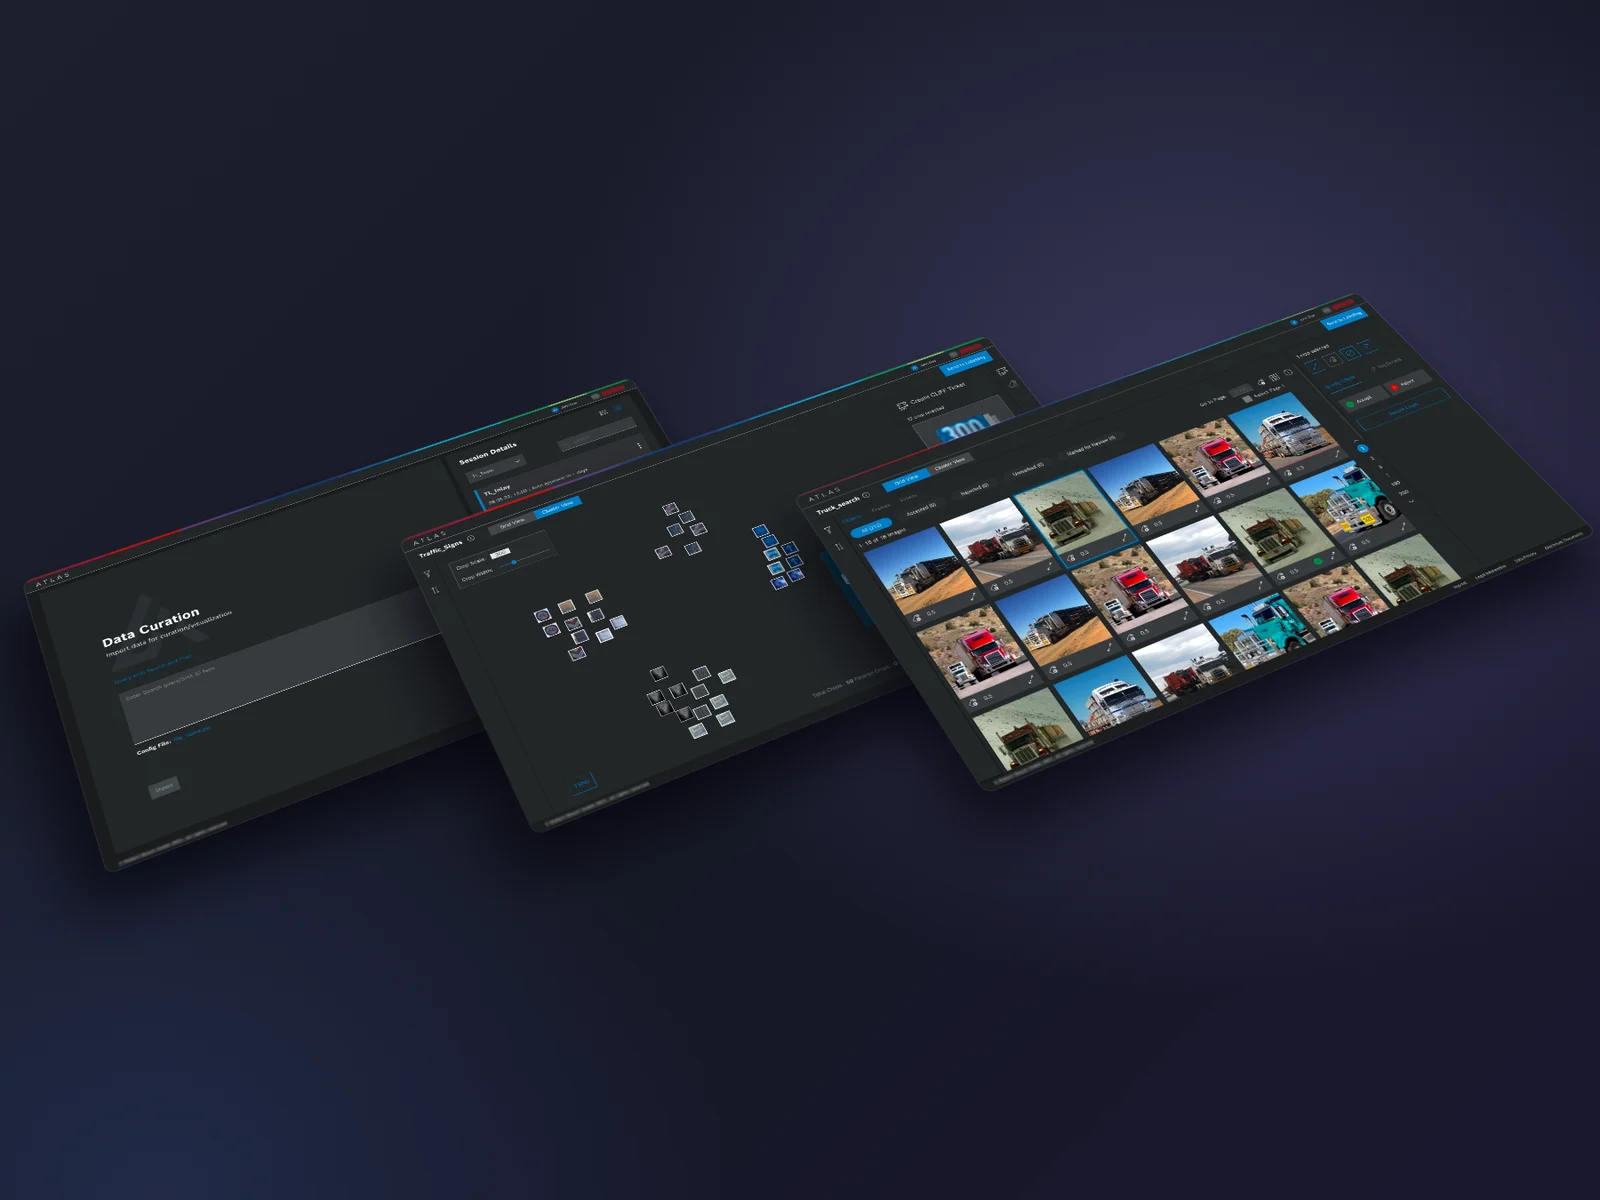
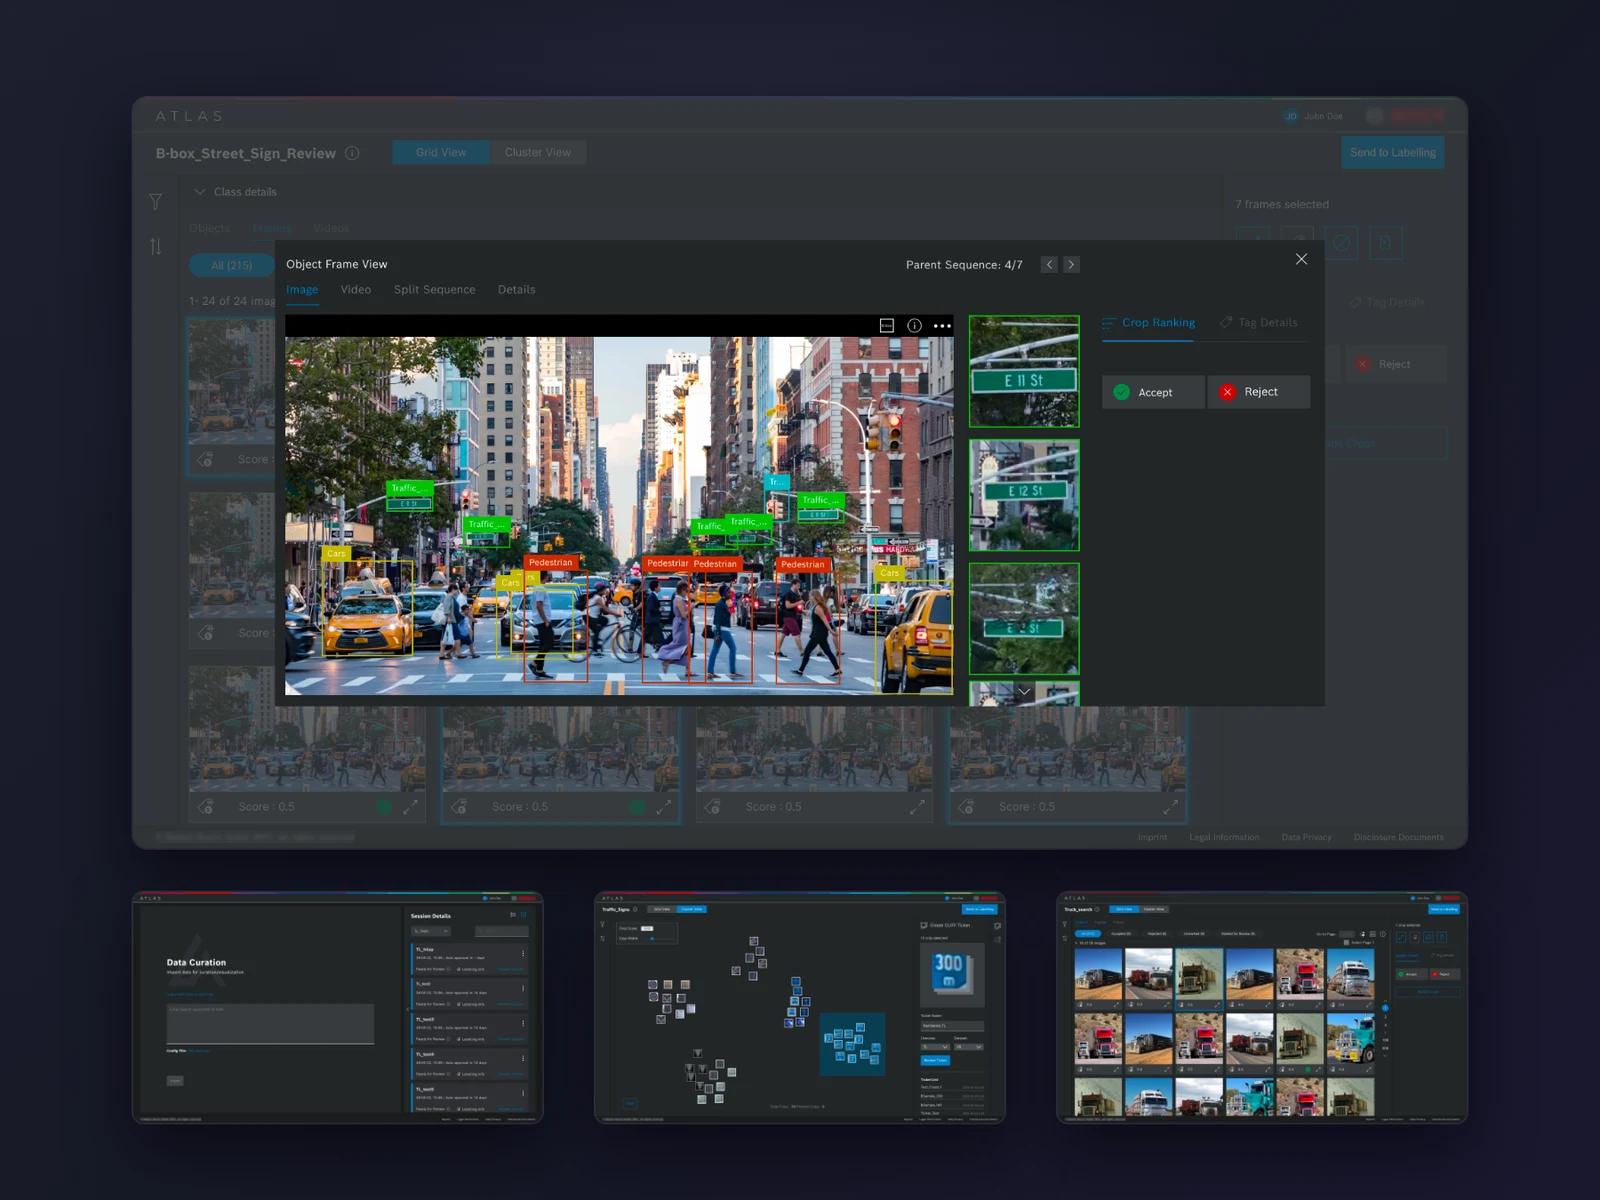
ATLAS cover: flat layout with four screens, object frame view large
Claude-Session: https://claude.ai/code/session_01BUxMADTYnMy5PmcPR4NAT9

diff --git a/projects/bosch-image-data-curation/atlas-image-optimisation/index.html b/projects/bosch-image-data-curation/atlas-image-optimisation/index.html
@@ -79,12 +79,12 @@
     <div><dt class="eyebrow text-mist-500">Users</dt><dd class="mt-2">Labelling experts, model developers, data analysts</dd></div>
   </dl>
 
-  <!-- Cover: three ATLAS screens (session list, cluster view, grid view) supplied by Ojasv 2026-11-22, composed in perspective. -->
+  <!-- Cover: four ATLAS screens supplied by Ojasv 2026-11-22. Object frame view large, then session list, cluster view and grid view stacked in workflow order. Source layout: /mnt/project-files/bosch/atlas-cover-source.html -->
   <figure class="mt-16 lg:mt-24">
-    <a href="../../../assets/img/projects/bosch-image-data-curation/atlas/cover-2400.webp" class="block cursor-zoom-in overflow-hidden rounded-lg bg-surface ring-1 ring-mist-800" aria-label="View larger: three ATLAS screens">
-      <img src="../../../assets/img/projects/bosch-image-data-curation/atlas/cover-1200.webp" srcset="../../../assets/img/projects/bosch-image-data-curation/atlas/cover-1200.webp 1200w, ../../../assets/img/projects/bosch-image-data-curation/atlas/cover-2400.webp 2400w" sizes="(min-width: 100rem) 100rem, 100vw" width="2400" height="1350" alt="Three ATLAS screens in perspective: the Data Curation page where a session is imported, a cluster view of traffic sign crops with a CLIFF ticket being created, and a grid view of truck crops with accept and reject controls" class="h-auto w-full">
+    <a href="../../../assets/img/projects/bosch-image-data-curation/atlas/cover-2400.webp" class="block cursor-zoom-in overflow-hidden rounded-lg bg-surface ring-1 ring-mist-800" aria-label="View larger: four ATLAS screens">
+      <img src="../../../assets/img/projects/bosch-image-data-curation/atlas/cover-1200.webp" srcset="../../../assets/img/projects/bosch-image-data-curation/atlas/cover-1200.webp 1200w, ../../../assets/img/projects/bosch-image-data-curation/atlas/cover-2400.webp 2400w" sizes="(min-width: 100rem) 100rem, 100vw" width="2400" height="1350" alt="Four ATLAS screens. Large: the object frame view of a street scene with labelled boxes for traffic signs, cars and pedestrians, and street sign crops to accept or reject. Beside it: the Data Curation page where a session is imported, a cluster view of traffic sign crops with a CLIFF ticket being created, and a grid view of truck crops" class="h-auto w-full">
     </a>
-    <figcaption class="mt-3 text-xs text-mist-500">ATLAS: import a session, see its crops as clusters, then accept, reject and re-rank them in the grid.</figcaption>
+    <figcaption class="mt-3 text-xs text-mist-500">ATLAS: import a session, see its crops as clusters, accept or reject them in the grid, and check each one in its original frame.</figcaption>
   </figure>
 
   <section aria-labelledby="glance" class="mt-16 rounded-lg bg-surface/60 p-6 ring-1 ring-accent-700 sm:p-10 lg:mt-24 lg:p-14">

diff --git a/projects/bosch-image-data-curation/index.html b/projects/bosch-image-data-curation/index.html
@@ -121,7 +121,7 @@
       </article>
       <article class="group">
         <a href="../../projects/bosch-image-data-curation/atlas-image-optimisation/" class="block">
-          <div class="aspect-[4/3] overflow-hidden rounded-lg bg-surface"><img src="../../assets/img/projects/bosch-image-data-curation/atlas/card.webp" width="1600" height="1200" alt="Three ATLAS screens in perspective: session list, cluster view and grid view" loading="lazy" class="h-full w-full object-cover transition duration-700 ease-tide group-hover:scale-[1.03]"></div>
+          <div class="aspect-[4/3] overflow-hidden rounded-lg bg-surface"><img src="../../assets/img/projects/bosch-image-data-curation/atlas/card.webp" width="1600" height="1200" alt="Four ATLAS screens: object frame view, session list, cluster view and grid view" loading="lazy" class="h-full w-full object-cover transition duration-700 ease-tide group-hover:scale-[1.03]"></div>
           <p class="eyebrow mt-6 text-mist-400">ATLAS app</p>
           <h2 class="mt-2 slant font-serif text-2xl tracking-tight group-hover:text-accent-300 lg:text-4xl">Image Optimisation Workflow</h2>
           <p class="mt-3 max-w-xl leading-relaxed text-mist-300">Labelled crops plotted as clusters, so people can check labels, catch anomalies and tune filter models.</p>
